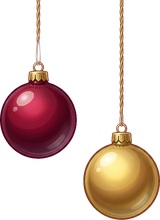
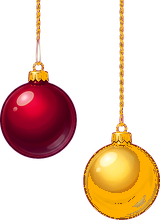
feat: Noël, fond bordeaux chaleureux, plus de neige (vrais flocons), poudre et lumières floues, couleurs plus vives, pommes de pin dorées

diff --git a/Client/Ui/Skin/SkinAmbience.cs b/Client/Ui/Skin/SkinAmbience.cs
@@ -77,13 +77,41 @@ internal static class SkinAmbience
             return;
         }
 
+        // warm bokeh: big soft lights of the tree's garlands out of focus behind the panel (Stacy, 2026-11-02: "plus chaleureux, plus flashy")
         var random = new Random(17);
-        for (int i = 0; i < 26; i++)
+        Color[] bokeh = { Color.FromRgb(0xFF, 0xB0, 0x4A), Color.FromRgb(0xFF, 0x5A, 0x5A), Color.FromRgb(0xFF, 0xD8, 0x7A), Color.FromRgb(0x6B, 0xE0, 0x8F) };
+        for (int i = 0; i < 9; i++)
         {
-            bool top = i < 18;
-            double size = 3 + random.NextDouble() * 4;
-            double x = 6 + random.NextDouble() * (width - 12);
-            double y = top ? -overhang.Top * (0.15 + random.NextDouble() * 0.6) : height + overhang.Bottom * (0.1 + random.NextDouble() * 0.5);
+            Color c = bokeh[i % bokeh.Length];
+            var soft = new RadialGradientBrush(Color.FromArgb(0x40, c.R, c.G, c.B), Color.FromArgb(0x00, c.R, c.G, c.B));
+            soft.Freeze();
+            double d = 26 + random.NextDouble() * 34;
+            var disc = new Ellipse { Width = d, Height = d, Fill = soft, Opacity = 0.5, IsHitTestVisible = false };
+            Canvas.SetLeft(disc, random.NextDouble() * (width - d));
+            Canvas.SetTop(disc, random.NextDouble() * (height - d));
+            canvas.Children.Add(disc);
+            disc.BeginAnimation(UIElement.OpacityProperty, new DoubleAnimation(0.25, 0.8, TimeSpan.FromSeconds(2.5 + random.NextDouble() * 3))
+            {
+                AutoReverse = true, RepeatBehavior = RepeatBehavior.Forever, BeginTime = TimeSpan.FromSeconds(random.NextDouble() * 3),
+                EasingFunction = new SineEase { EasingMode = EasingMode.EaseInOut },
+            });
+        }
+
+        // a warm light from below too, for the bottom drifts
+        var floor = new Ellipse { Width = width * 0.9, Height = height * 0.5, Fill = warm, IsHitTestVisible = false };
+        Canvas.SetLeft(floor, width * 0.05);
+        Canvas.SetTop(floor, height * 0.78);
+        canvas.Children.Add(floor);
+
+        for (int i = 0; i < 64; i++)
+        {
+            // 0-21 on the top snow, 22-33 on the bottom one, 34-45 along the sides, the rest scattered over the panel
+            bool top = i < 22, bottom = i is >= 22 and < 34, side = i is >= 34 and < 46;
+            double size = 3 + random.NextDouble() * (i >= 46 ? 3 : 4);
+            double x = side ? (i % 2 == 0 ? -overhang.Left * (0.2 + random.NextDouble() * 0.5) : width + overhang.Right * (0.2 + random.NextDouble() * 0.5)) : 6 + random.NextDouble() * (width - 12);
+            double y = top ? -overhang.Top * (0.15 + random.NextDouble() * 0.6)
+                : bottom ? height + overhang.Bottom * (0.1 + random.NextDouble() * 0.5)
+                : 4 + random.NextDouble() * (height - 8);
             var glint = new Image { Source = spark, Width = size, Height = size, Opacity = 0, IsHitTestVisible = false, Tag = "spark", RenderTransformOrigin = new Point(0.5, 0.5) };
             var grow = new ScaleTransform(1, 1);
             glint.RenderTransform = grow;

diff --git a/Client/Ui/MainWindow.xaml.cs b/Client/Ui/MainWindow.xaml.cs
@@ -4181,14 +4181,14 @@ public partial class MainWindow : Window
         SkinInfoIcon.Visibility = Visibility.Collapsed;
         byte alpha = (byte)Math.Round(_overlayOpacity * 255);
         var background = new System.Windows.Media.LinearGradientBrush(
-            System.Windows.Media.Color.FromArgb(alpha, 0x07, 0x14, 0x2C), System.Windows.Media.Color.FromArgb(alpha, 0x00, 0x0B, 0x1E), 90);
+            System.Windows.Media.Color.FromArgb(alpha, 0x3E, 0x12, 0x1D), System.Windows.Media.Color.FromArgb(alpha, 0x1B, 0x06, 0x0E), 90); // 2026-11-02: the warm wine of the Christmas look, not the night sky
         background.Freeze();
         panel.Resources["Brush.OverlayBg"] = background;
         panel.Resources["Brush.Accent"] = FrozenBrush(0xF2, 0xD5, 0x8A);
         panel.Width = 340; // a little wider than the usual 320: the garland takes room, the fight's name keeps its own
         panel.Padding = new Thickness(15, 17, 15, 24); // the garland's bells and flowers overhang the corners: the content keeps clear of them
         AlignSkinHost(panel.Padding);
-        Skin.SkinSnow.Start(WinterSkinHost, 26);
+        Skin.SkinSnow.Start(WinterSkinHost, 64, skin.Flakes.Select(f => skin.Bitmap(f.File)).OfType<ImageSource>().ToList());
         Skin.SkinAmbience.Start(WinterSkinHost, skin, skin.Frame?.Overhang ?? new Thickness(0));
         // the warm colours of the mock-up: cream text, warm beige for the quiet labels
         panel.Resources["Brush.OverlayText"] = FrozenBrush(0xFF, 0xF6, 0xE6);

diff --git a/Client/Ui/Skin/SkinSnow.cs b/Client/Ui/Skin/SkinSnow.cs
@@ -61,7 +61,7 @@ internal static class SkinSnow
             if (shapes is { Count: > 0 } && i % 2 == 0)
             {
                 // a picture of a snowflake, turning slowly as it falls
-                size = 6 + random.NextDouble() * 6;
+                size = 7 + random.NextDouble() * 7;
                 var turn = new RotateTransform(random.NextDouble() * 360);
                 turn.BeginAnimation(RotateTransform.AngleProperty, new DoubleAnimation(turn.Angle, turn.Angle + (random.Next(2) == 0 ? 360 : -360), TimeSpan.FromSeconds(12 + random.NextDouble() * 14))
                 {
@@ -69,7 +69,7 @@ internal static class SkinSnow
                 });
                 flake = new Image
                 {
-                    Source = shapes[random.Next(shapes.Count)], Width = size, Height = size, Stretch = Stretch.Uniform, Opacity = 0.3 + random.NextDouble() * 0.4,
+                    Source = shapes[random.Next(shapes.Count)], Width = size, Height = size, Stretch = Stretch.Uniform, Opacity = 0.45 + random.NextDouble() * 0.4,
                     RenderTransformOrigin = new Point(0.5, 0.5), RenderTransform = new TransformGroup { Children = { turn, move } }, IsHitTestVisible = false,
                 };
             }
